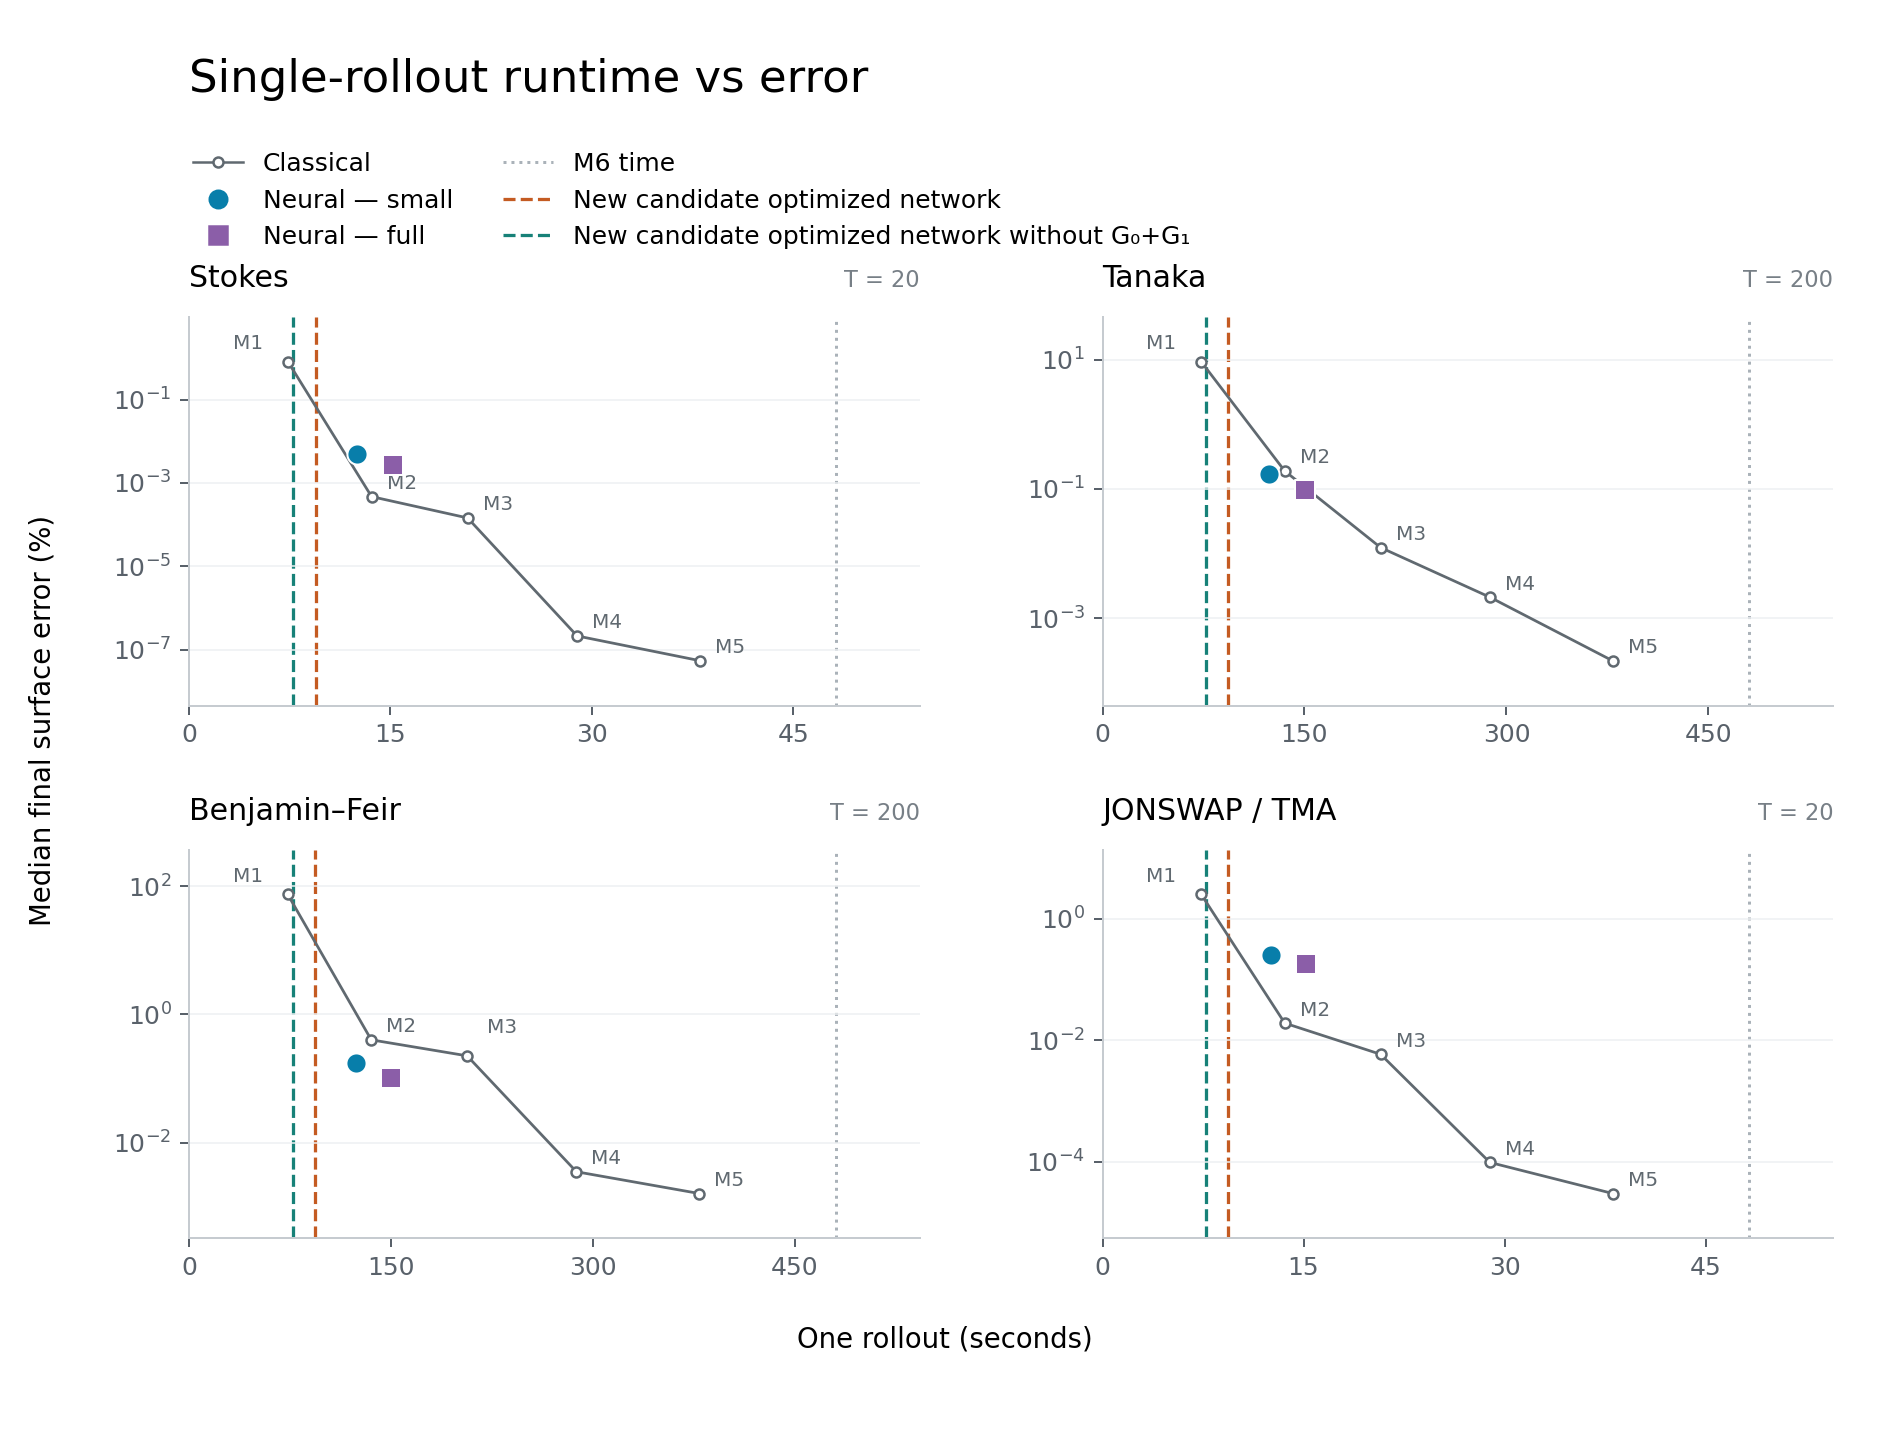
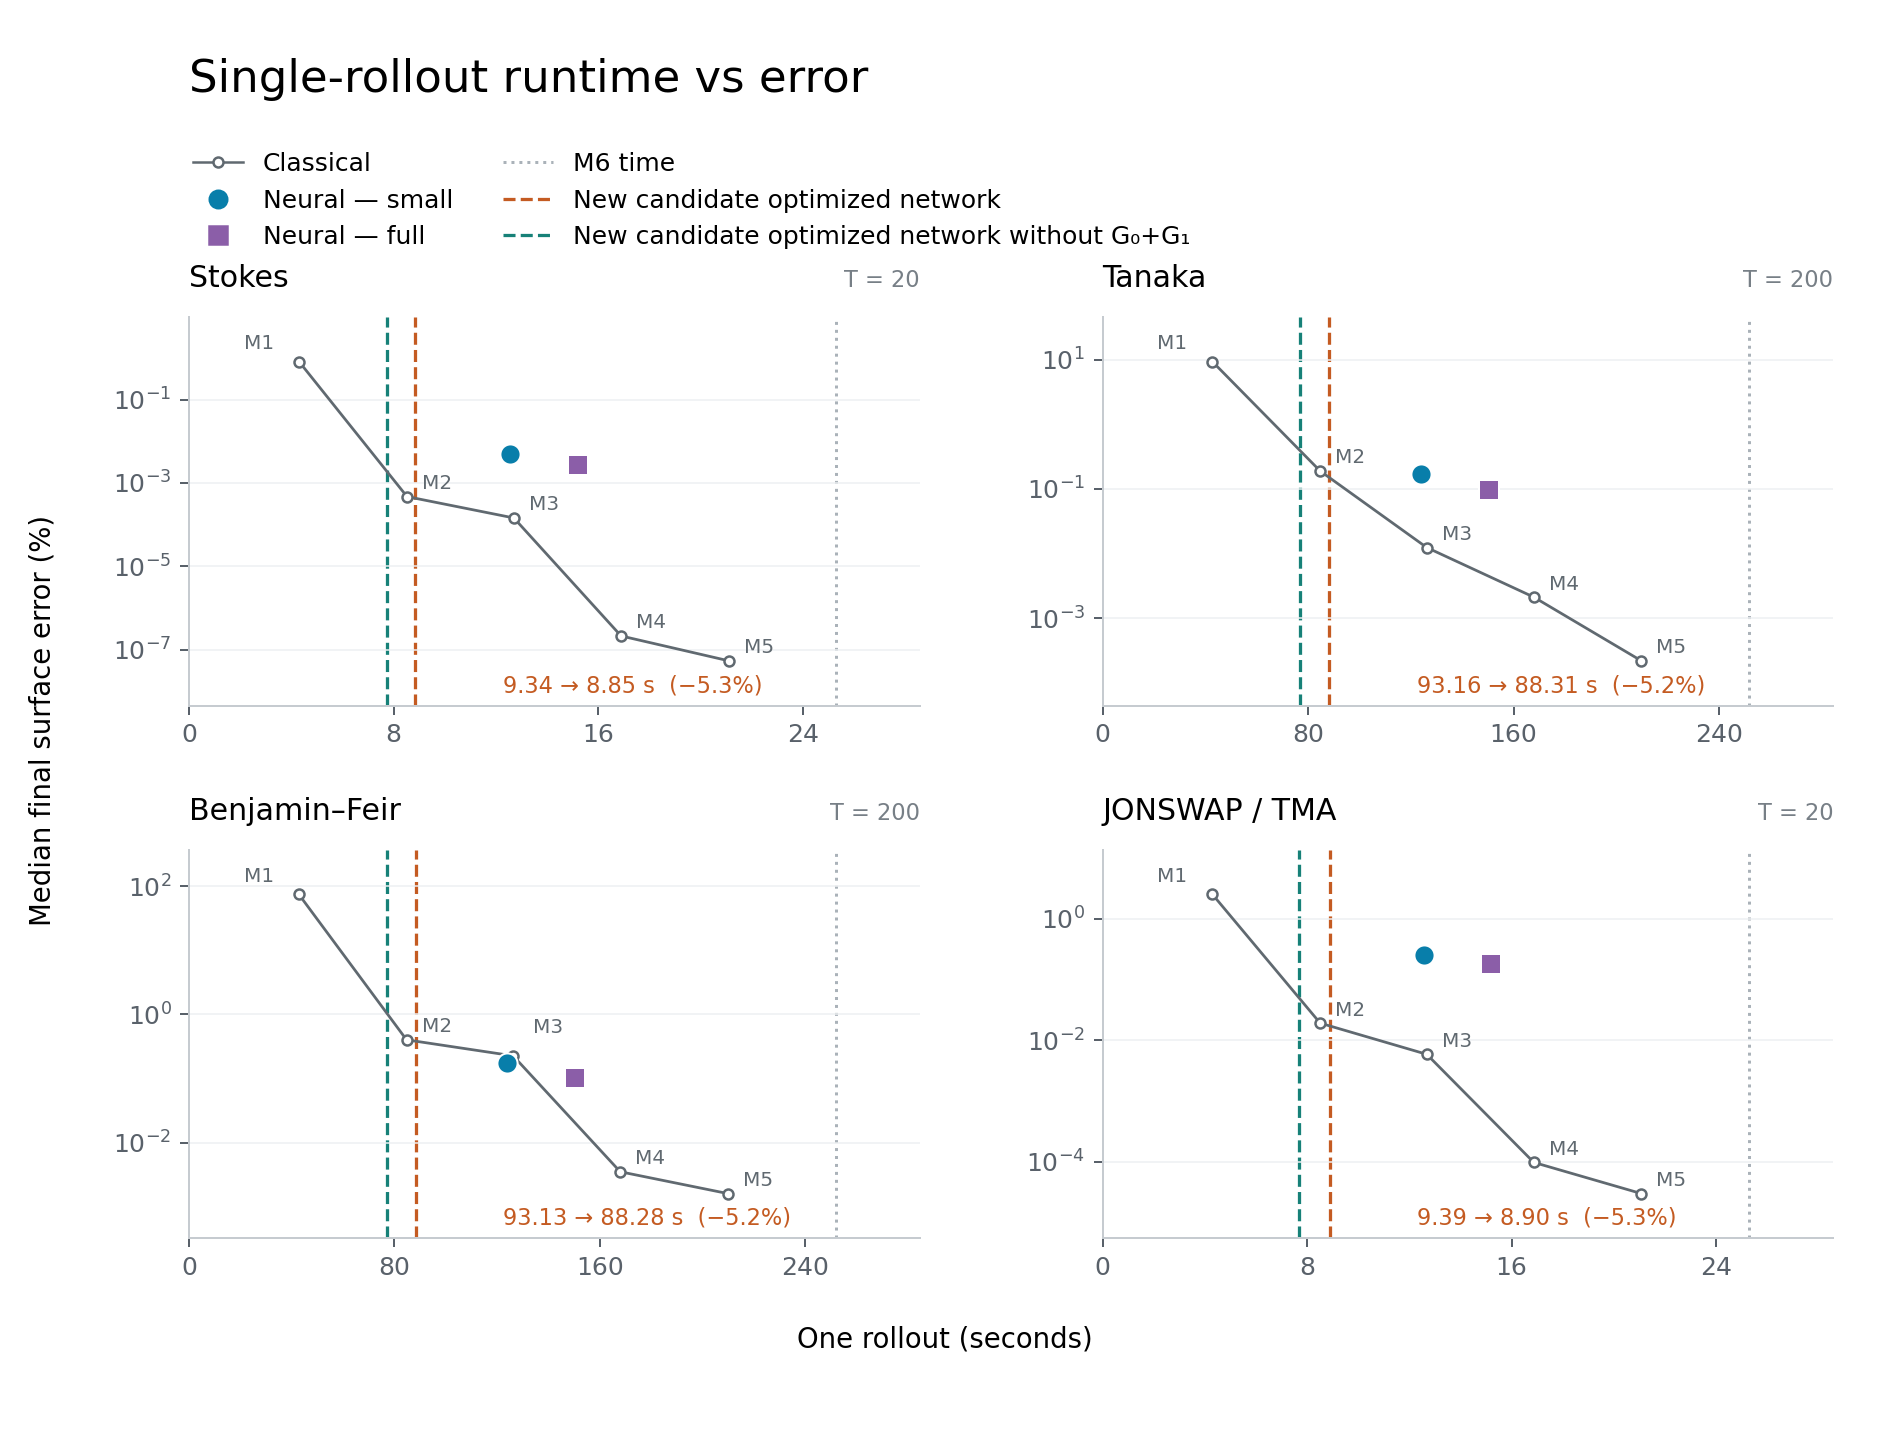
Update Figure 12 with optimized full-rollout timings for M1 through M6

diff --git a/paper-plots/plot_neural_advantage.py b/paper-plots/plot_neural_advantage.py
@@ -113,7 +113,7 @@ if __name__ == "__main__":
             if comparison is candidate and args.candidate_previous_method:
                 previous_seconds = float(np.median(methods[args.candidate_previous_method]["seconds"]))
                 savings = 100 * (1 - new_seconds / previous_seconds)
-                ax.text(0.03, 0.035, f"{previous_seconds:.2f} → {new_seconds:.2f} s  (−{savings:.1f}%)",
+                ax.text(0.43, 0.035, f"{previous_seconds:.2f} → {new_seconds:.2f} s  (−{savings:.1f}%)",
                         transform=ax.transAxes, color=color, fontsize=9)
             right = max(right, new_seconds)
             print(f"{title}, {label}: {new_seconds:.3f}s; finite={record['finite']}")

diff --git a/experiments/experiments-2026-09-24.md b/experiments/experiments-2026-09-24.md
@@ -16,3 +16,4 @@
 | 2026-09-24 | 16:17 | Cancel both baseline-ablation training runs | Both ablations still trail the G0+G1 pilot; the user explicitly canceled both to prioritize execution optimization. | Sent TERM only to verified baseline-free PID2695944 and G0-only PID2844652. Latest/best saved epochs: baseline-free68/65, G0-only14/14. Best-score checkpoint DNO errors:0.2186% and0.2456%, versus0.0833% for the G0+G1 one-epoch pilot. All checkpoint directories and logs retained. GPU process query confirms both trainers released their memory; Sam's PID2906465 remains on GPU1. | Both trainers stopped; saved metadata readable. Unsaved updates after the last completed epoch are not retained. These are unequal-duration training observations, not converged ablation conclusions. | 11:49 baseline-free run (04:28–16:17); 04:07 G0-only run (12:10–16:17). | STOP both at the user's request. Keep G0+G1 for execution optimization; do not resume either ablation. |
 | 2026-09-24 | 16:39 | Neural analytic FFT batching and G0-sharing trials | G1's two independent inverse transforms and product transforms can each be batched, reducing launches while retaining FP64 arithmetic. G0 might also share a transform with G1 or the learned correction. | Extended the existing inference benchmark, not either trainer. Two600-call interleaved GPU0 screens: previous fused224.18/227.05 us, batched G1 201.09/204.09 us. Sharing FP64 G0 from G1 failed the1e-5 forward tolerance (max1.74e-4). Combining the FP32 G0 spectrum with the learned correction reached198.07 us and passed the48-state check, but changed the T200 BF surface by0.1954% for only about1% additional rollout savings. Retained G1 batching alone: full single-rollout before/after seconds are Stokes9.3404/8.8495 (three repeats), Tanaka93.1609/88.3122, BF93.1297/88.2849, JONSWAP9.3929/8.8986 (one repeat each); about5.2% less rollout time. Outputs: `outputs/dno_fusion_20260924/baseline_fft/` and `baseline_joint/`. | PASS retained variant:48-state maximum relative difference2.806e-8 against the original model; all saved eta/xi/Gxi values in all four full trajectories bitwise equal to the previous fused execution. Finite states, positive saved depth,14 compiler FFTs versus16 previously. More aggressive G0 sharing rejected despite algebraic equivalence because of floating-point differences. Scoped Ruff/Pyright pass. Same weights and integrator; no retraining. | 00:17 screening/full-rollout interval (16:20–16:37). | KEEP batched G1 as `fused_g1`. Reject both G0-sharing variants; do not use their runtimes in Figure12. User requested the same applicable optimization for classical M1–M6; that sweep is separate. |
 | 2026-09-24 | 16:44 | Classical recurrence FFT batching for the Figure12 comparison | The user requested equal optimization treatment for classical G0+G1. The solver already sums spectral terms and caches the depth symbol, but independent padded inverse transforms and product transforms still launched separately. | Packed eta/dx(xi)/G0(xi) inverse transforms and each order's independent product transforms in `dno_series_jax.py`, retaining FP64, padding8 and the same recurrence. GPU0,300 interleaved batch-one calls per version/order: M1–M6 before us369.20/653.59/1014.25/1422.14/1880.15/2385.26; after204.09/402.23/613.31/826.02/1036.47/1245.55. FFT counts8/14/21/29/38/48→5/9/13/17/21/25. Fresh full single-rollout sweep launched16:38; Stokes M1–M6 seconds4.3024/8.5192/12.6926/16.8813/21.0859/25.2693. JONSWAP also complete; T200 Tanaka/BF pending. Raw data: `outputs/dno_fusion_20260924/baseline_joint/classical_screen.json` and `classical_rollouts.json`. | PASS:84 CPU combinations (orders0–6, grids64/128, padding1/2/8, batched/unbatched), maximum relative difference7.06e-17; all48 saved GPU states bitwise identical at each M1–M6. Independent first-order identity and saved-Gxi tests, two dealiasing tests,23 integrator/evaluator tests and scoped Ruff/Pyright pass. Stokes full M6 differs from cached reference by at most1.44e-13 relative eta. | 00:08 implementation/screening (16:30–16:38); full sweep ongoing since16:38. | KEEP the equivalent batching implementation. Do not finalize Figure12 until the remaining full-horizon timings are available. Prune rejected neural G0-sharing trials from the active scripts; their implementation remains in git. |
+| 2026-09-24 | 17:18 | Completed optimized M1–M6 full-rollout comparison and Figure12 | Applying the same FFT batching to the classical recurrence is necessary for a fair runtime comparison; full single trajectories test the actual savings requested by the user. | Completed all24 family/order runs, using warmed batch-one execution and the unchanged T20/T200 horizons. Stokes M1–M6 seconds4.30/8.52/12.69/16.88/21.09/25.27; Tanaka42.79/84.70/126.22/167.91/209.71/251.71; BF42.78/84.70/126.21/167.89/209.71/251.79; JONSWAP4.30/8.51/12.68/16.87/21.07/25.29. Results in `outputs/dno_fusion_20260924/baseline_joint/classical_rollouts.json`. Figure12 PNG/PDF now use the fresh classical times and retained neural G1 batching, with5.2–5.3% incremental neural runtime savings annotated. Existing32-case error statistics and older small/full neural points retained. README includes the regeneration command. | PASS: all24 saved trajectories finite with positive depth (minimum0.04998598). Maximum M6 difference from cached reference4.99e-12 relative eta and9.94e-12 Gxi. Prior recurrence equivalence and integrator tests pass. Final plot visually inspected; annotations do not overlap data or timing lines. | 00:36 full-sweep interval (16:38–17:14); final render17:15. | KEEP classical FFT batching and trajectory-identical neural G1 batching; use updated Figure12. Rejected G0-sharing variants are excluded. Both canceled trainers remain stopped; Sam's job untouched. Manuscript and ZIP unchanged. |

diff --git a/paper-plots/README.md b/paper-plots/README.md
@@ -170,34 +170,46 @@ Stokes and JONSWAP/TMA. These conclusions use one timing sample per method/famil
 ### 12-potential-new-nn
 
 [PNG](figures/12-potential-new-nn.png) / [PDF](figures/12-potential-new-nn.pdf).
-A separate copy of figure 11 adds the optimized 37,632-parameter model's
-measured runtimes as orange vertical lines. Each is the median of three
-warmed, batch-one full trajectories: T=20 for Stokes/JONSWAP-TMA and T=200
-for Tanaka/Benjamin–Feir, excluding compilation, setup, warm-up and host
-transfers. Classical timings come from the earlier benchmark, not a fresh
-simultaneous sweep.
+A separate copy of figure 11 adds the candidate model's measured runtimes as
+orange vertical lines. The latest update batches the FP64 G1 transforms;
+orange annotations show previous → current runtime and the reduction.
+Stokes uses three repeats; the other families use one full trajectory per
+version. All timings use batch one and the complete T=20 or T=200 horizon,
+excluding compilation, setup, warm-up and host transfers. All saved eta, xi
+and Gxi arrays are bitwise identical to the previous optimized execution.
+
+The classical curve now uses a fresh full M1–M6 sweep with the corresponding
+FFT batching applied to its padded recurrence. The classical implementation
+already cached its depth symbol and combined spectral terms before the final
+inverse transform. Its precision, padding, truncation orders and integrator
+are unchanged. New timings are in
+`outputs/dno_fusion_20260924/baseline_joint/classical_rollouts.json`;
+the existing 32-case error statistics and older small/full neural points are
+retained. Each classical timing is one full single rollout.
 
 The line deliberately has no accuracy coordinate: the original points show
 32-case median errors, which have not been evaluated for this one-epoch 37k
 checkpoint. Its single-case error against the unchanged implementation is not
 an accuracy measurement against M6. All four families have completed timings.
-Both runtime overlays use the same 37k checkpoint with grouped branch FFTs and
-cached depth multipliers. Orange retains the model's G0+G1 terms; teal omits
-them before compilation. The teal runs are **speed-only diagnostics with
+Both runtime overlays use the same candidate checkpoint with grouped branch
+FFTs and cached depth multipliers. Orange retains the model's G0+G1 terms;
+teal retains the earlier measurements with both terms omitted before
+compilation. The teal runs are **speed-only diagnostics with
 altered dynamics**, not valid water-wave predictions or accuracy results.
 The integrator is unchanged, including its own linear-flow/G0 operations.
 Without the model baselines, Stokes remained finite; JONSWAP/TMA, Tanaka and
 Benjamin–Feir produced non-finite saved states. The full requested step count
 was executed in every case. Figure12 uses the label "New candidate optimized
-network" and has no explanatory callouts or footer; numerical outcomes and
+network" and has no explanatory footnotes; numerical outcomes and
 timings are recorded in `notes/dno_profile_20260924.md` and the raw results.
 This update does not regenerate figure 11, the manuscript or the ZIP. Reproduce with:
 
 ```sh
 UV_CACHE_DIR=/tmp/codex-uv-cache uv run --no-sync paper-plots/plot_neural_advantage.py \
   --timings outputs/single_rollout_timing_20260923.json \
-  --candidate-timings outputs/dno_fusion_20260924/rollout_timing.json \
-    outputs/dno_fusion_20260924/rollout_remaining_families.json \
-    outputs/dno_fusion_20260924/rollout_benjamin_feir_retiming.json \
+  --classical-timings outputs/dno_fusion_20260924/baseline_joint/classical_rollouts.json \
+  --candidate-timings outputs/dno_fusion_20260924/baseline_joint/rollout_stokes.json \
+    outputs/dno_fusion_20260924/baseline_joint/rollout_remaining.json \
+  --candidate-method fused_g1 --candidate-previous-method fused \
   --no-baseline-timings outputs/dno_fusion_20260924/rollout_no_baselines.json
 ```

diff --git a/notes/dno_profile_20260924.md b/notes/dno_profile_20260924.md
@@ -318,6 +318,25 @@ The independent G0+G1 identity test, both dealiasing tests, and23 integrator/
 evaluator tests pass. Full trajectories are measured separately in
 `baseline_joint/classical_rollouts.json`; Figure12 uses those runtimes.
 
+The full single-rollout sweep completed for all24 family/order combinations:
+
+| Family | M1 | M2 | M3 | M4 | M5 | M6 |
+| --- | ---: | ---: | ---: | ---: | ---: | ---: |
+| Stokes | 4.30 s | 8.52 s | 12.69 s | 16.88 s | 21.09 s | 25.27 s |
+| Tanaka | 42.79 s | 84.70 s | 126.22 s | 167.91 s | 209.71 s | 251.71 s |
+| Benjamin–Feir | 42.78 s | 84.70 s | 126.21 s | 167.89 s | 209.71 s | 251.79 s |
+| JONSWAP/TMA | 4.30 s | 8.51 s | 12.68 s | 16.87 s | 21.07 s | 25.29 s |
+
+Each entry is one warmed full trajectory on uncontended GPU0, with the same
+case and numerical settings used by the prior single-rollout benchmark.
+All saved states are finite with positive fluid depth. The largest M6
+relative difference from the cached reference is4.99e-12 for eta and
+9.94e-12 for Gxi, both on Tanaka. Figure12 retains the prior32-case error
+statistics and original small/full neural points, but replaces every
+classical runtime with this sweep and adds the candidate's measured5.2–5.3%
+incremental runtime savings. The PDF and PNG are regenerated; neither the
+manuscript nor the ZIP is changed.
+
 ## Reproduce
 
 Use `scripts/profile_dno.py` with `CUDA_VISIBLE_DEVICES=0` and the project

diff --git a/EXPERIMENTS.md b/EXPERIMENTS.md
@@ -33,11 +33,11 @@ could not be recovered at all are in
 
 ## Dated logs
 
-76 files, 1060 rows.
+76 files, 1061 rows.
 
 | Date | Rows | File | Size |
 | --- | --- | --- | --- |
-| 2026-09-24 | 16 | [`experiments/experiments-2026-09-24.md`](experiments/experiments-2026-09-24.md) | 29 KB |
+| 2026-09-24 | 17 | [`experiments/experiments-2026-09-24.md`](experiments/experiments-2026-09-24.md) | 30 KB |
 | 2026-09-23 | 9 | [`experiments/experiments-2026-09-23.md`](experiments/experiments-2026-09-23.md) | 17 KB |
 | 2026-09-22 | 4 | [`experiments/experiments-2026-09-22.md`](experiments/experiments-2026-09-22.md) | 5 KB |
 | 2026-09-18 | 2 | [`experiments/experiments-2026-09-18.md`](experiments/experiments-2026-09-18.md) | 3 KB |
